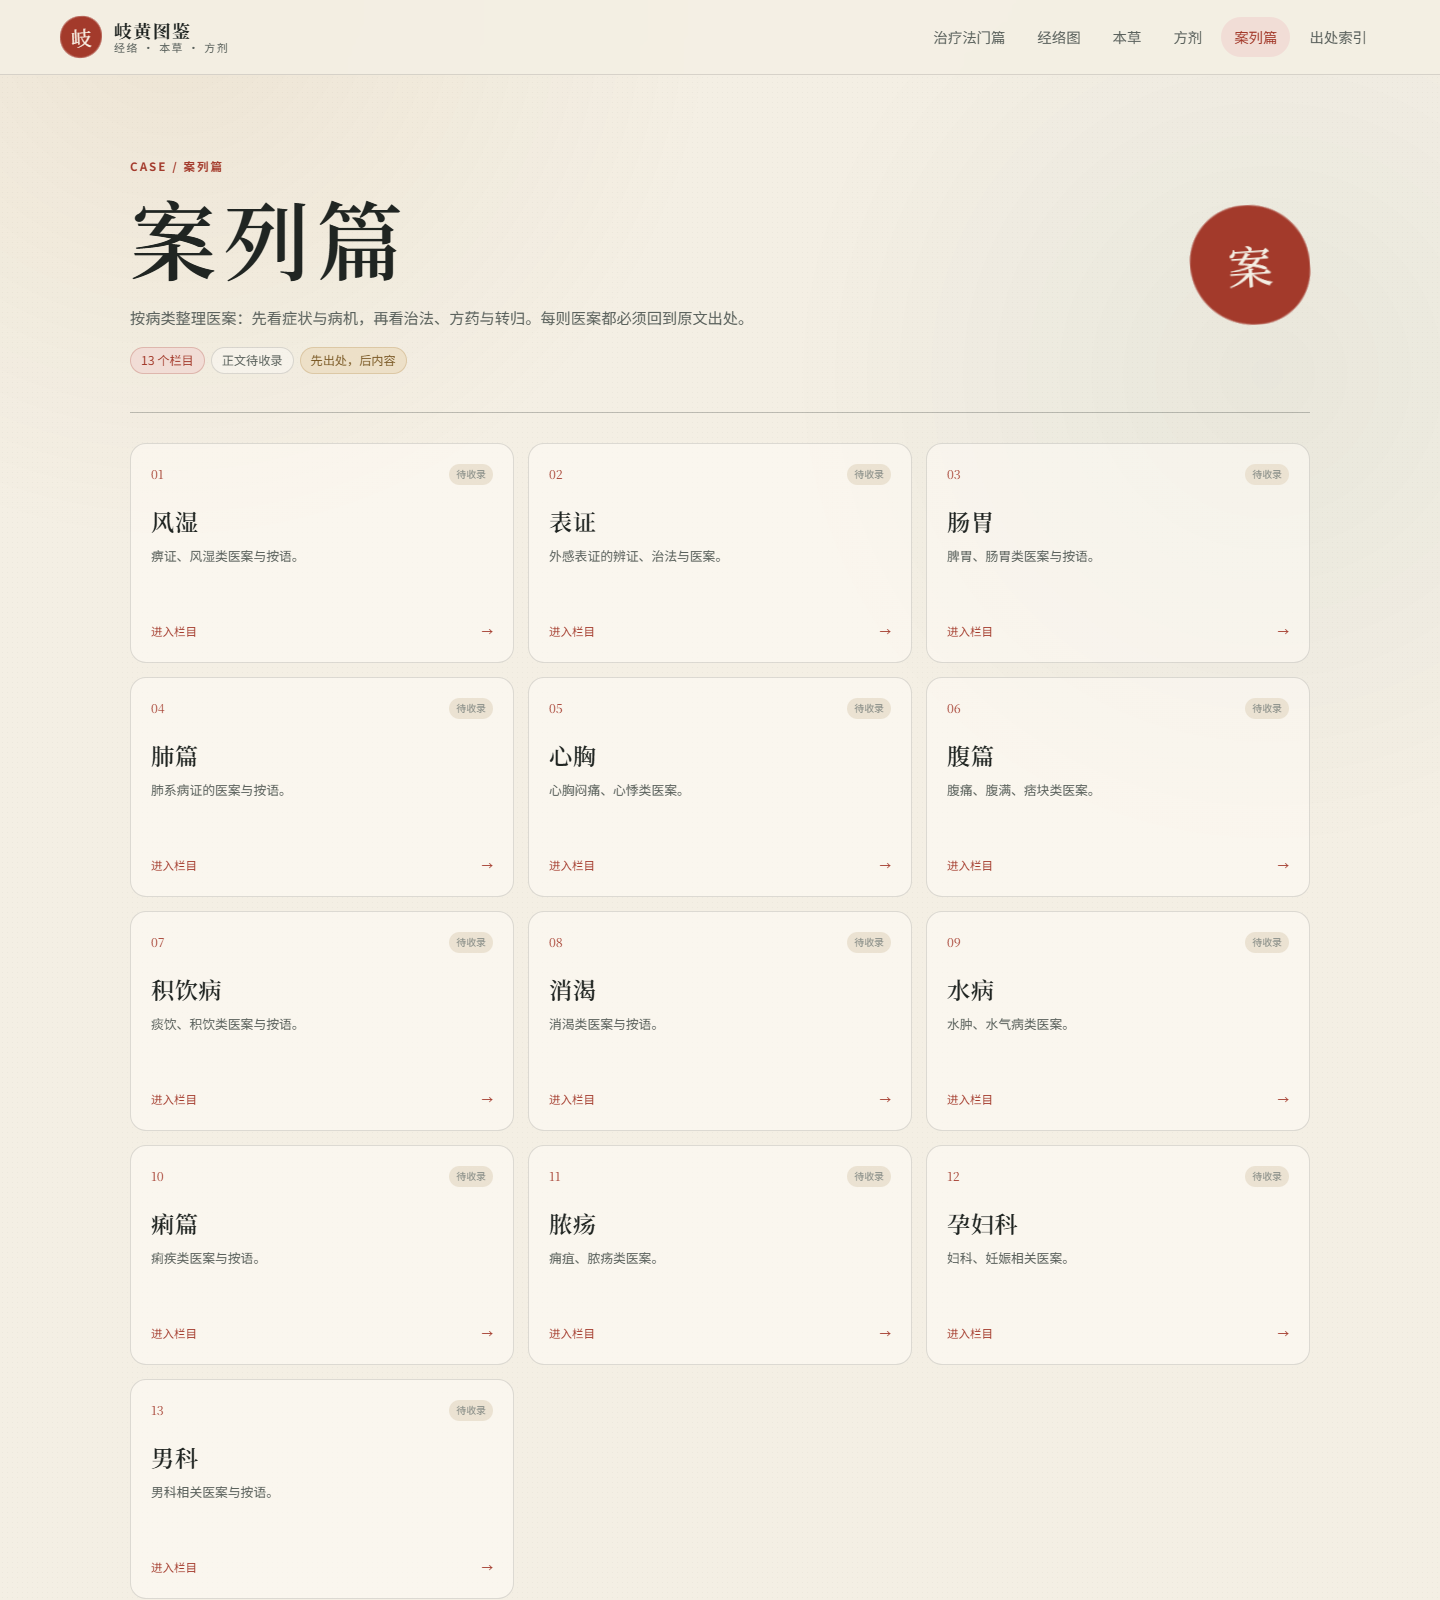
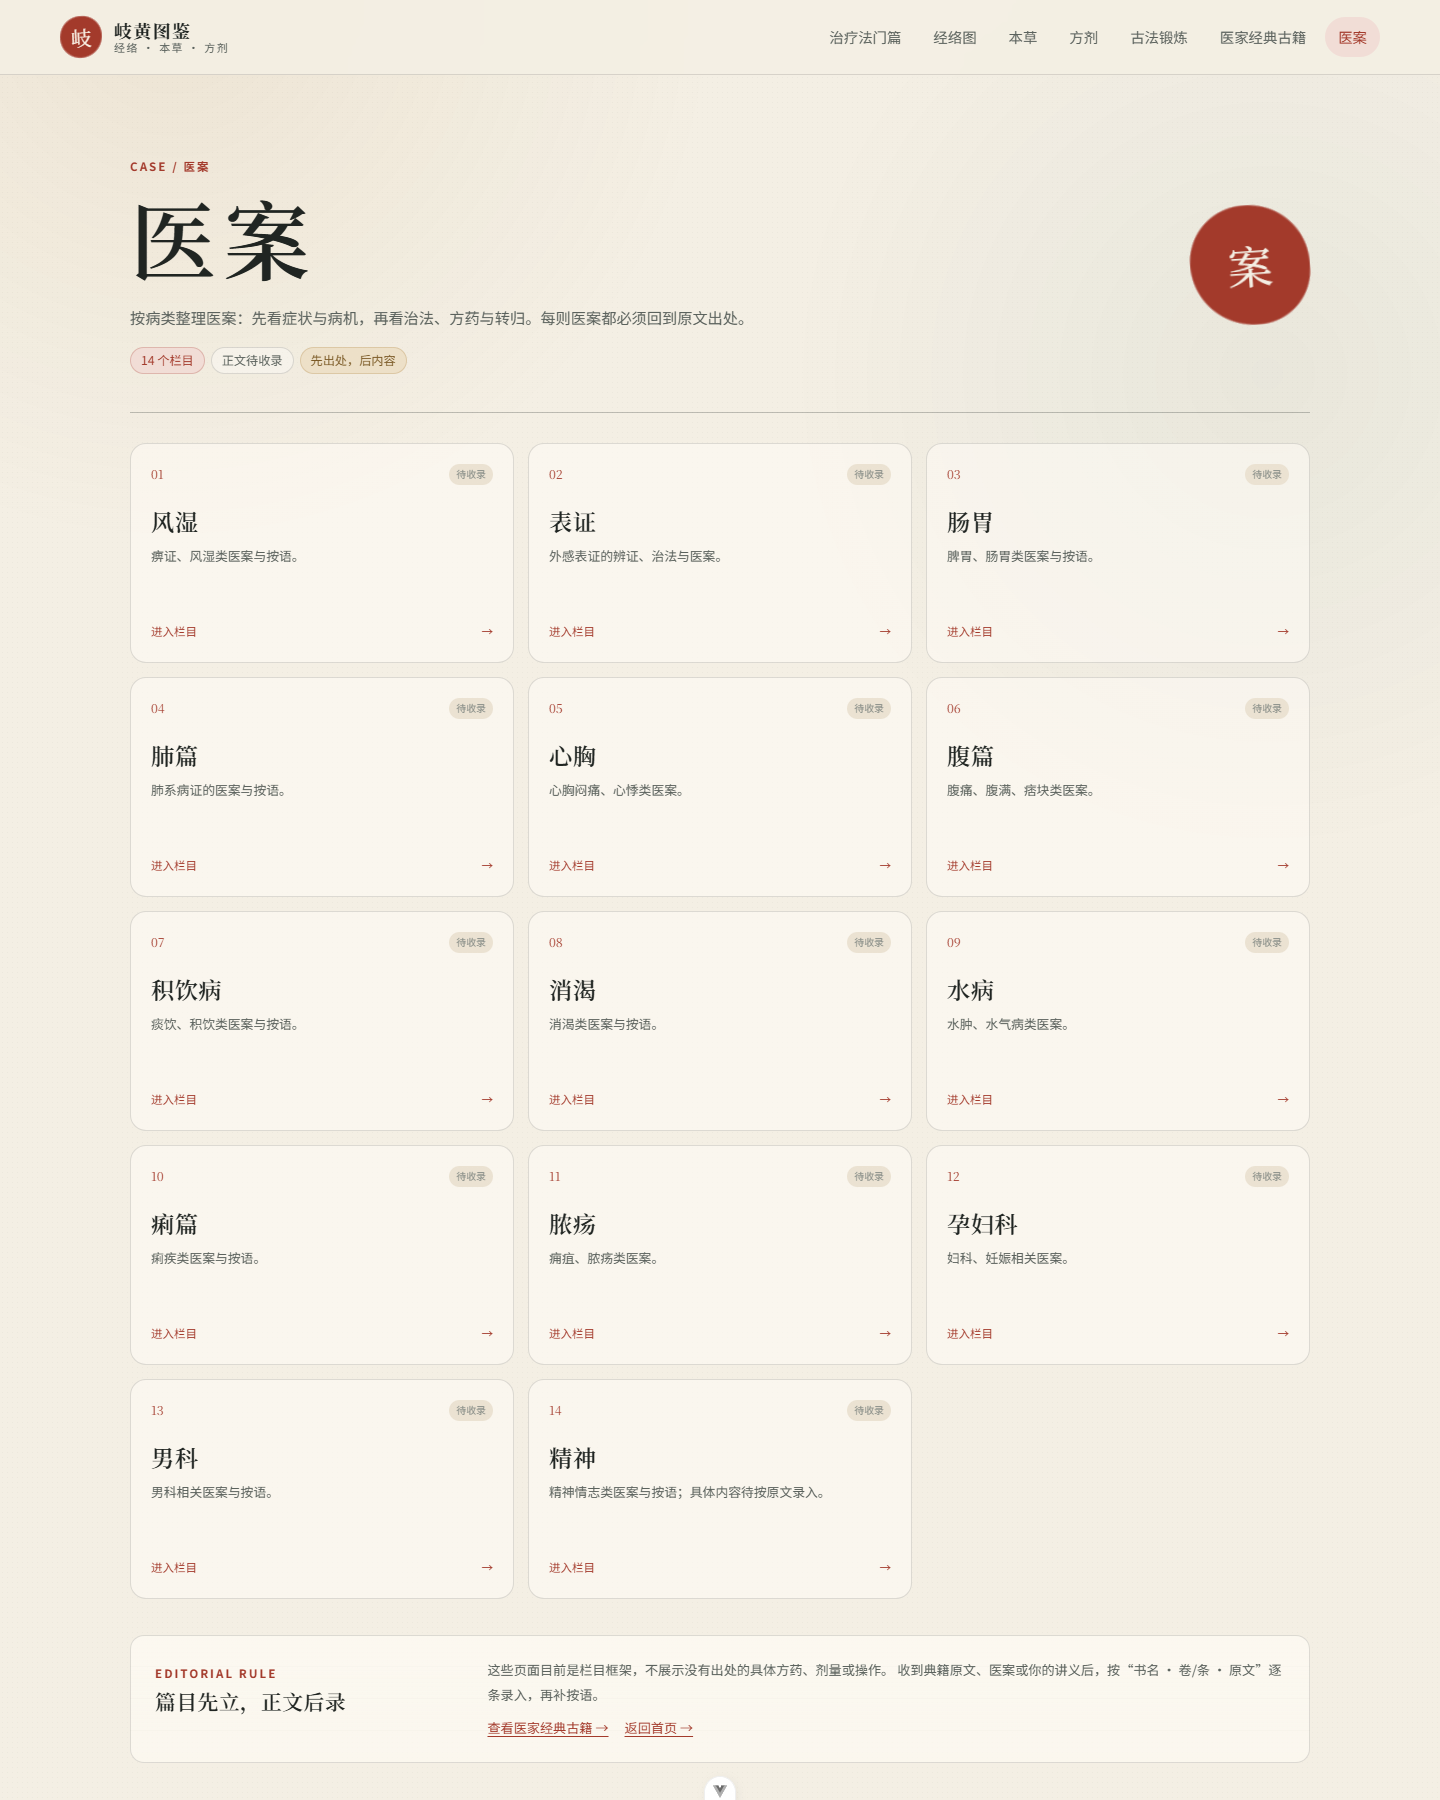
Add mental case section and adjust homepage hero scale

diff --git a/src/views/HomeView.vue b/src/views/HomeView.vue
@@ -295,15 +295,16 @@ const modules = computed(() => [
   display: flex;
   flex-wrap: wrap;
   align-items: center;
-  gap: 4px 2px;
+  gap: 4px 6px;
   margin-top: 26px;
   padding-top: 14px;
-  max-width: 560px;
+  max-width: 840px;
   border-top: 1px solid var(--line-strong);
 }
 
 .hero-index__label {
-  margin-right: 8px;
+  flex-basis: 100%;
+  margin: 0 0 6px;
   color: var(--ink-faint);
   font-family: var(--serif);
   font-size: 0.68rem;
@@ -311,10 +312,10 @@ const modules = computed(() => [
 }
 
 .hero-index a {
-  padding: 5px 9px;
+  padding: 5px 10px;
   border-radius: 999px;
   color: var(--ink-soft);
-  font-size: 0.8rem;
+  font-size: 0.9rem;
   transition: color 0.18s ease, background 0.18s ease;
 }
 
@@ -324,28 +325,28 @@ const modules = computed(() => [
 }
 
 .hero__stats {
-  margin: 30px 0 0;
+  margin: 26px 0 0;
   display: grid;
   grid-template-columns: repeat(4, minmax(0, 1fr));
-  gap: 14px;
-  max-width: 520px;
+  gap: 12px;
+  max-width: 440px;
 }
 
 .hero__stats div {
   border-top: 1px solid var(--line-strong);
-  padding-top: 12px;
+  padding-top: 10px;
 }
 
 .hero__stats dt {
   font-family: var(--serif);
-  font-size: 1.7rem;
+  font-size: 1.12rem;
   line-height: 1;
 }
 
 .hero__stats dd {
-  margin: 6px 0 0;
+  margin: 5px 0 0;
   color: var(--ink-soft);
-  font-size: 0.76rem;
+  font-size: 0.66rem;
 }
 
 .module-section {
@@ -799,7 +800,7 @@ const modules = computed(() => [
 
   .hero-index a {
     padding: 5px 7px;
-    font-size: 0.76rem;
+    font-size: 0.84rem;
   }
 
   .section-head {

diff --git a/src/data/topics.ts b/src/data/topics.ts
@@ -69,6 +69,7 @@ export const caseTopics: Topic[] = [
   { id: 'abscess', title: '脓疡', subtitle: '痈疽、脓疡类医案。' },
   { id: 'gynecology', title: '孕妇科', subtitle: '妇科、妊娠相关医案。' },
   { id: 'andrology', title: '男科', subtitle: '男科相关医案与按语。' },
+  { id: 'mental', title: '精神', subtitle: '精神情志类医案与按语；具体内容待按原文录入。' },
 ]
 
 export const topicSections = {

diff --git a/README.md b/README.md
@@ -6,7 +6,7 @@
 - 经络图：手太阴肺经已补全 11 穴（中府、云门、天府、侠白、尺泽、孔最、列缺、经渠、太渊、鱼际、少商），每穴标注井/荥/输/经/合、原/络/郄/募/母/子等属性；其余经络显示“收录 x / 标准总数”，按同一格式逐条补全。3D 支持 360° 旋转、缩放、前后视图。
 - 本草：9 味样例药材，性味、归经、功效、主治、禁忌，古籍名/现代别名/地域名，3 张实拍照片、配伍关系；照片按全株/部位/药材三格排列，个别饮片切片图待补，不拿相似图替代；列表每行 5 味。
 - 方剂：桂枝汤、小柴胡汤，原文、原文药材选取与煎服法、现代剂量切换、现代煎煮/服用参考、症状、组成、君臣佐使、用量比例、加减、关系图谱、方义解说、历代医家解说栏（预设“古籍条曰”与“历代医家解说”两种占位卡片，原文待补）；君臣佐使用不同颜色和符号区分，原文证据悬停预览/点击查看全文。计量单位标“一两 = 现今的一钱”，组成区先列常用组成配比，用量表默认显示今用剂量，可点“切换古代用量”查看古籍原方用量与比例；方义解说逐味说明该药在方中作用，并汇总主治。小柴胡汤今用配比 5:3:3:5:3:3（柴、芩、参、半、草、姜，大枣另计）。关系图谱悬停药材可看其在方中的作用（如柴胡疏肝胆），作用归纳标为后世方解。原文中带虚线的词可悬停看现代注解；“现代解说”栏未填时显示“待补充”，可点“添加解说”在网页里填写并保存到当前浏览器，或复制生成的数据代码写入 `formulas.mjs` 永久发布。
-- 医案：风湿、表证、肠胃、肺篇、心胸、腹篇、积饮病、消渴、水病、痢篇、脓疡、孕妇科、男科。
+- 医案：风湿、表证、肠胃、肺篇、心胸、腹篇、积饮病、消渴、水病、痢篇、脓疡、孕妇科、男科、精神。
 - 古法锻炼：金刚功、长寿功、五禽戏、易筋经、八段锦等收藏页；视频/图片只收自有、授权或官方公开素材，未收录前标“待收录”。
 - 名家讲堂：以张仲景、傅青主、李时珍、孙思邈等医家与典籍为线索，收集后世/当代名家的视频课件；历史医家无影像，讲授者、版本与授权分开标注。
 - 药材的炮制：按草木类、蛇虫类、金石类分栏，收集多味药材的炮制方法；每法回引原书、药典或炮制规范，未核来源前只列条目、不写操作细节。
